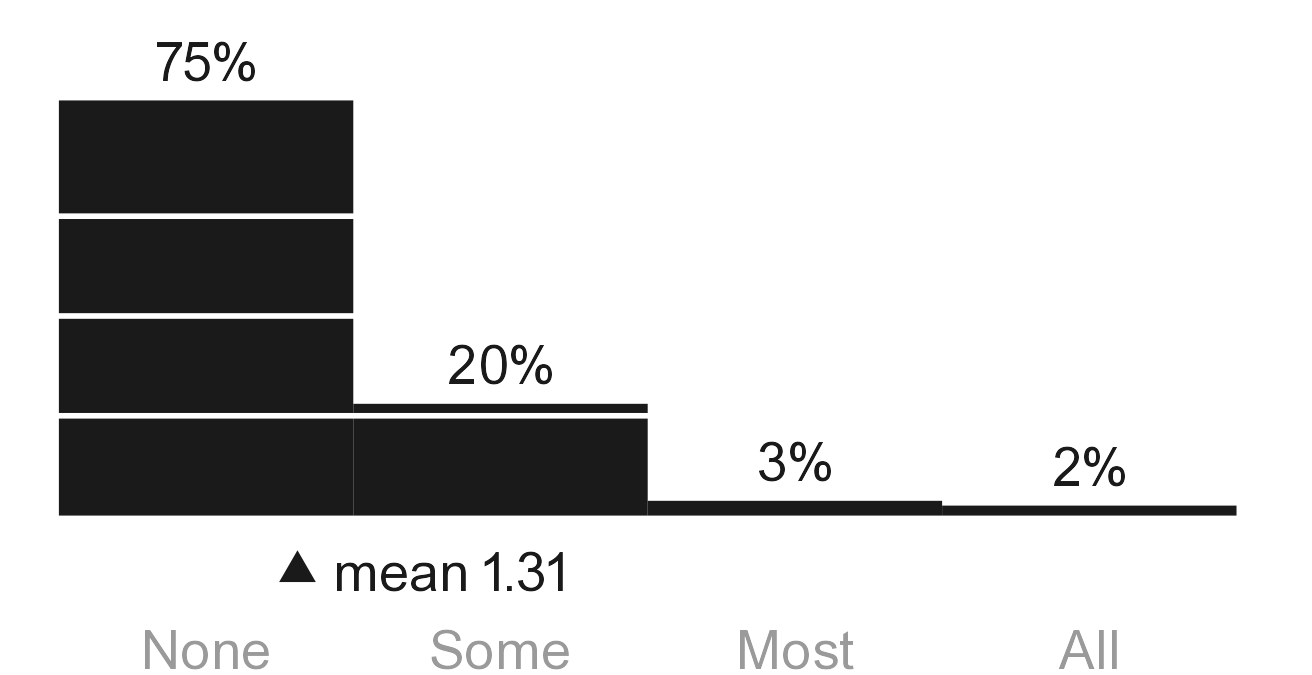
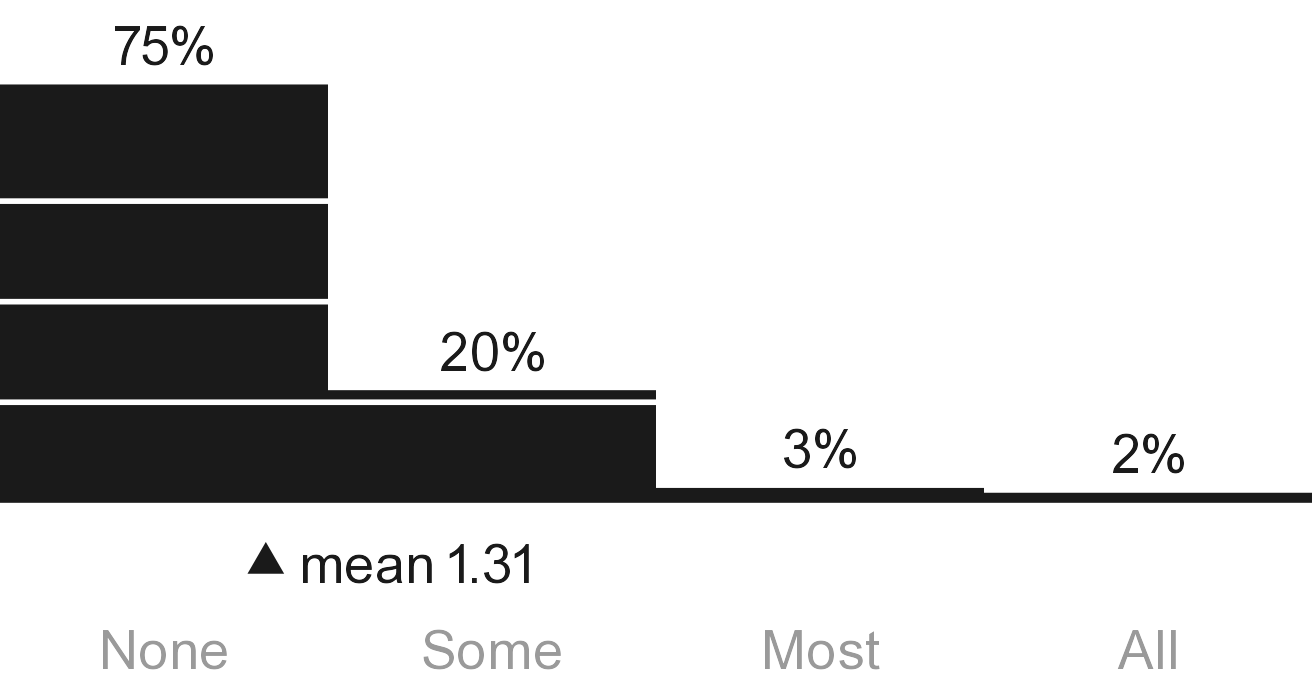
Rebuild the page on one grid with four written alignment rules
One unit (X = text x-height), one baseline (3X) and three fixed columns
used on every row: labels (16X), text (54X), evidence (35X). Rules:
size follows column (two sizes); every left edge sits on a column,
plot panels fill column C with no y-axes; a row's label, text and
caption share their first baseline; rows are one empty line apart.
The page is a single Typst grid. All figures are redrawn for column C,
the cut-point panel becomes Figure 5 beside the interpretation, and
patchwork is no longer needed.

Claude-Session: https://claude.ai/code/session_01N6LHGnroK4Xbw9ugMfDDMF

diff --git a/README.md b/README.md
@@ -57,7 +57,7 @@
 1. Put the R script and the data files in the same folder, and open that folder as an RStudio Project (or set it as the working directory).
 2. Install the packages once if needed:
    ```r
-   install.packages(c("readr", "dplyr", "ggplot2", "patchwork"))
+   install.packages(c("readr", "dplyr", "ggplot2"))
    ```
 3. Open `00_exploration.R` and run it from top to bottom: line by line with Ctrl/Cmd + Enter, or all at once with **Source**.
 
@@ -65,7 +65,7 @@ The script reads all columns as text, because the CSV stores answers as labels (
 
 The script runs from the raw CSV through every recode, statistic, test and figure in the report:
 step 3 computes the descriptives and Figures 1–3, step 4 runs the Welch t-test and draws Figure 4,
-step 5 draws the cut-point panel of Figure 2, and step 6 writes every number the report prints to
+step 5 draws Figure 5 (the cut-point limitation), and step 6 writes every number the report prints to
 `figures/report_numbers.csv`. All figures go to `figures/`.
 
 ## Building the report
